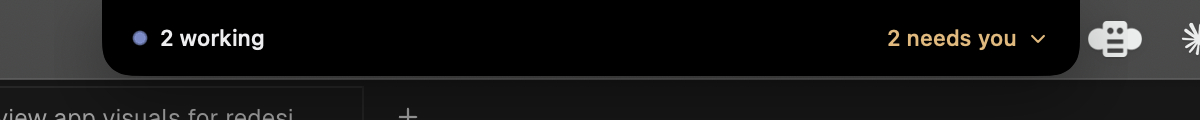
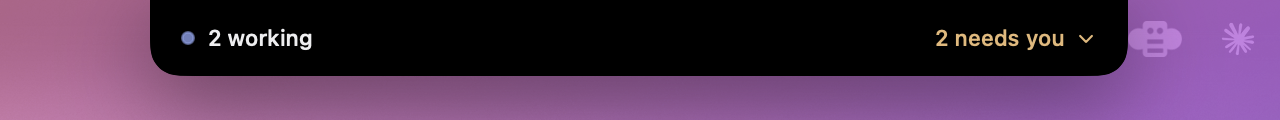
Soften the panel shadow and stop the window edge clipping it; cleaner README screenshots

diff --git a/Sources/NotchHUD/HUDView.swift b/Sources/NotchHUD/HUDView.swift
@@ -322,7 +322,9 @@ struct HUDView: View {
         .background { panelSurface }
         .clipShape(shape)
         .overlay(shape.strokeBorder(hasNotch ? .clear : HUDStyle.line, lineWidth: 1))
-        .shadow(color: .black.opacity(0.4), radius: 18, y: 10)
+        // Soft ambient shadow. The window keeps a wide transparent margin so
+        // the blur fades to nothing before the window edge cuts it off.
+        .shadow(color: .black.opacity(colorScheme == .dark ? 0.45 : 0.22), radius: 22, y: 12)
         .onHover { value in
             inside = value
             collapseTask?.cancel()

diff --git a/Sources/NotchHUD/HUDPanelController.swift b/Sources/NotchHUD/HUDPanelController.swift
@@ -4,7 +4,7 @@ import Combine
 
 /// The floating margin around the pill so SwiftUI shadows/glows aren't clipped
 /// by the window bounds. Transparent pixels pass clicks through.
-private let shadowMargin: CGFloat = 24
+private let shadowMargin: CGFloat = 72
 
 private struct HUDRoot: View {
     let inner: HUDView
